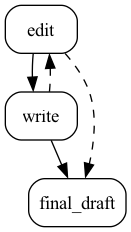
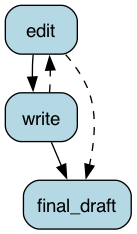
Updates the example images for recursive burr execution

diff --git a/examples/opentelemetry/application.py b/examples/opentelemetry/application.py
@@ -2,14 +2,13 @@ import os
 from typing import Optional, Tuple
 
 import openai
-from opentelemetry.instrumentation.openai import OpenAIInstrumentor
 from traceloop.sdk import Traceloop
 
 from burr.core import Application, ApplicationBuilder, State, default, when
 from burr.core.action import action
 from burr.core.graph import GraphBuilder
 from burr.integrations.opentelemetry import OpenTelemetryBridge
-from burr.visibility import TracerFactory
+from burr.visibility import TracerFactory, trace
 
 MODES = {
     "answer_question": "text",
@@ -22,7 +21,7 @@ MODES = {
 @action(reads=[], writes=["chat_history", "prompt"])
 def process_prompt(state: State, prompt: str, __tracer: TracerFactory) -> Tuple[dict, State]:
     result = {"chat_item": {"role": "user", "content": prompt, "type": "text"}}
-    __tracer.log_attributes(prompt=prompt)
+    # __tracer.log_attributes(prompt=prompt)
     return result, state.wipe(keep=["prompt", "chat_history"]).append(
         chat_history=result["chat_item"]
     ).update(prompt=prompt)
@@ -30,35 +29,41 @@ def process_prompt(state: State, prompt: str, __tracer: TracerFactory) -> Tuple[
 
 @action(reads=["prompt"], writes=["safe"])
 def check_safety(state: State, __tracer: TracerFactory) -> Tuple[dict, State]:
-    with __tracer("check_safety"):
-        result = {"safe": "unsafe" not in state["prompt"]}  # quick hack to demonstrate
+    result = {"safe": "unsafe" not in state["prompt"]}  # quick hack to demonstrate
     return result, state.update(safe=result["safe"])
 
 
+@trace()
 def _get_openai_client():
     return openai.Client()
 
 
+@trace()
+def _query_openai(prompt: str, model: str = "gpt-4", chat_history: Optional[list] = None):
+    chat_history = chat_history or []
+    client = _get_openai_client()
+    result = client.chat.completions.create(
+        model=model,
+        messages=[
+            {"role": "system", "content": "You are a helpful assistant"},
+            *chat_history,
+            {"role": "user", "content": prompt},
+        ],
+    )
+    return result.choices[0].message.content
+
+
 @action(reads=["prompt"], writes=["mode"])
-def choose_mode(state: State, __tracer: TracerFactory) -> Tuple[dict, State]:
+def decide_mode(state: State, __tracer: TracerFactory) -> Tuple[dict, State]:
     prompt = (
         f"You are a chatbot. You've been prompted this: {state['prompt']}. "
         f"You have the capability of responding in the following modes: {', '.join(MODES)}. "
         "Please respond with *only* a single word representing the mode that most accurately "
-        "corresponds to the prompt. Fr instance, if the prompt is 'draw a picture of a cat', "
+        "corresponds to the prompt. For instance, if the prompt is 'draw a picture of a cat', "
         "the mode would be 'generate_image'. If the prompt is 'what is the capital of France', the mode would be 'answer_question'."
         "If none of these modes apply, please respond with 'unknown'."
     )
-    with __tracer("query_openai", span_dependencies=["generate_prompt"]):
-        client = _get_openai_client()
-        result = client.chat.completions.create(
-            model="gpt-4",
-            messages=[
-                {"role": "system", "content": "You are a helpful assistant"},
-                {"role": "user", "content": prompt},
-            ],
-        )
-    content = result.choices[0].message.content
+    content = _query_openai(prompt, model="gpt-4o")
     mode = content.lower()
     if mode not in MODES:
         mode = "unknown"
@@ -82,35 +87,20 @@ def prompt_for_more(state: State) -> Tuple[dict, State]:
 def chat_response(
     state: State,
     prepend_prompt: str,
-    __tracer: TracerFactory,
-    model: str = "gpt-3.5-turbo",
-) -> Tuple[dict, State]:
-    __tracer.log_attributes(model=model, prepend_prompt=prepend_prompt)
+    model: str = "gpt-4o",
+) -> State:
     chat_history = state["chat_history"].copy()
-    chat_history[-1]["content"] = f"{prepend_prompt}: {chat_history[-1]['content']}"
-    chat_history_api_format = [
-        {
-            "role": chat["role"],
-            "content": chat["content"],
-        }
-        for chat in chat_history
-    ]
-    client = _get_openai_client()
-    with __tracer("query_openai", span_dependencies=["create_openai_client"]):
-        result = client.chat.completions.create(
-            model=model,
-            messages=chat_history_api_format,
-        )
-    response = result.choices[0].message.content
-    result = {"response": {"content": response, "type": MODES[state["mode"]], "role": "assistant"}}
-    return result, state.update(**result)
+    chat_history_to_send = chat_history[:-1]
+    prompt = f"{prepend_prompt}: {chat_history[-1]['content']}"
+    response = _query_openai(prompt=prompt, chat_history=chat_history_to_send, model=model)
+    return state.update(response={"content": response, "type": "text", "role": "assistant"})
 
 
 @action(reads=["prompt", "chat_history", "mode"], writes=["response"])
 def image_response(
     state: State, __tracer: TracerFactory, model: str = "dall-e-2"
 ) -> Tuple[dict, State]:
-    __tracer.log_attributes(model=model)
+    # __tracer.log_attributes(model=model)
     client = _get_openai_client()
     with __tracer("query_openai_image", span_dependencies=["create_openai_client"]):
         result = client.images.generate(
@@ -118,7 +108,7 @@ def image_response(
         )
         response = result.data[0].url
     result = {"response": {"content": response, "type": MODES[state["mode"]], "role": "assistant"}}
-    __tracer.log_attributes(response=response)
+    # __tracer.log_attributes(response=response)
     return result, state.update(**result)
 
 
@@ -142,7 +132,7 @@ graph = (
     .with_actions(
         prompt=process_prompt,
         check_safety=check_safety,
-        decide_mode=choose_mode,
+        decide_mode=decide_mode,
         generate_image=image_response,
         generate_code=chat_response.bind(
             prepend_prompt="Please respond with *only* code and no other text (at all) to the following:",
@@ -182,7 +172,9 @@ def application_burr_as_otel_provider(
         .with_state(chat_history=[])
         .with_graph(graph)
         .with_tracker(
-            project="demo_opentelemetry", params={"storage_dir": storage_dir}, use_otel_tracing=True
+            project="demo_trace_decorator",
+            params={"storage_dir": storage_dir},
+            use_otel_tracing=True,
         )
         .with_identifiers(app_id=app_id)
         .build()
@@ -210,11 +202,21 @@ def application_traceloop_as_otel_provider(
 
 if __name__ == "__main__":
     # Instrument OpenAI API
-    OpenAIInstrumentor().instrument()
+    # OpenAIInstrumentor().instrument()
     # Choose which one to use
     # To use traceloop, uncomment this
     # app = application_traceloop_as_otel_provider()
     # To use Burr, keep this uncommented
-    app = application_burr_as_otel_provider()
+    app = application_burr_as_otel_provider(app_id="with_decorator")
+    # app = application_burr_as_otel_provider(app_id="vanilla_tracing")
     app.visualize(output_file_path="statemachine", include_conditions=True, view=True, format="png")
-    app.run(halt_after=["response"], inputs={"prompt": "What is the capital of France?"})
+    app.run(halt_after=["response"], inputs={"prompt": "Who was Aaron Burr, sir?."})
+    import time
+
+    time.sleep(1.5)
+    app.run(
+        halt_after=["response"],
+        inputs={
+            "prompt": "Please write a function that prints a quick poem about Aaron Burr and Alexander Hamilton."
+        },
+    )
